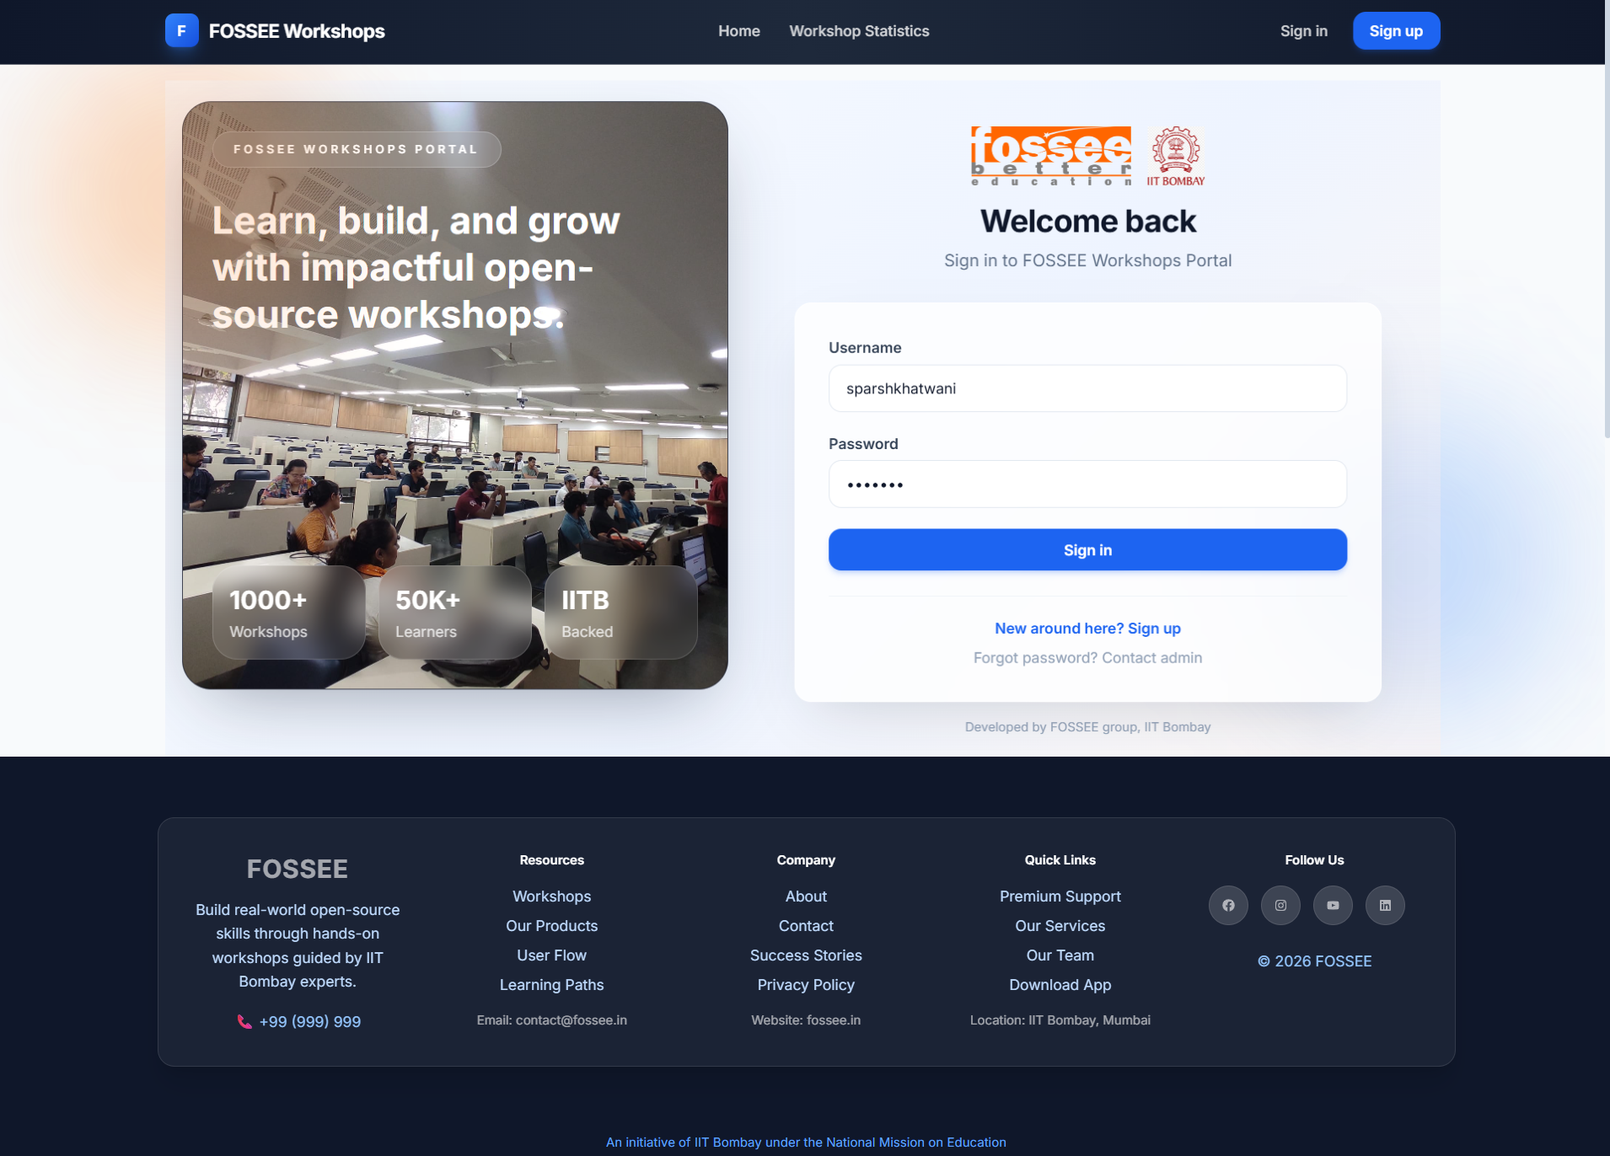
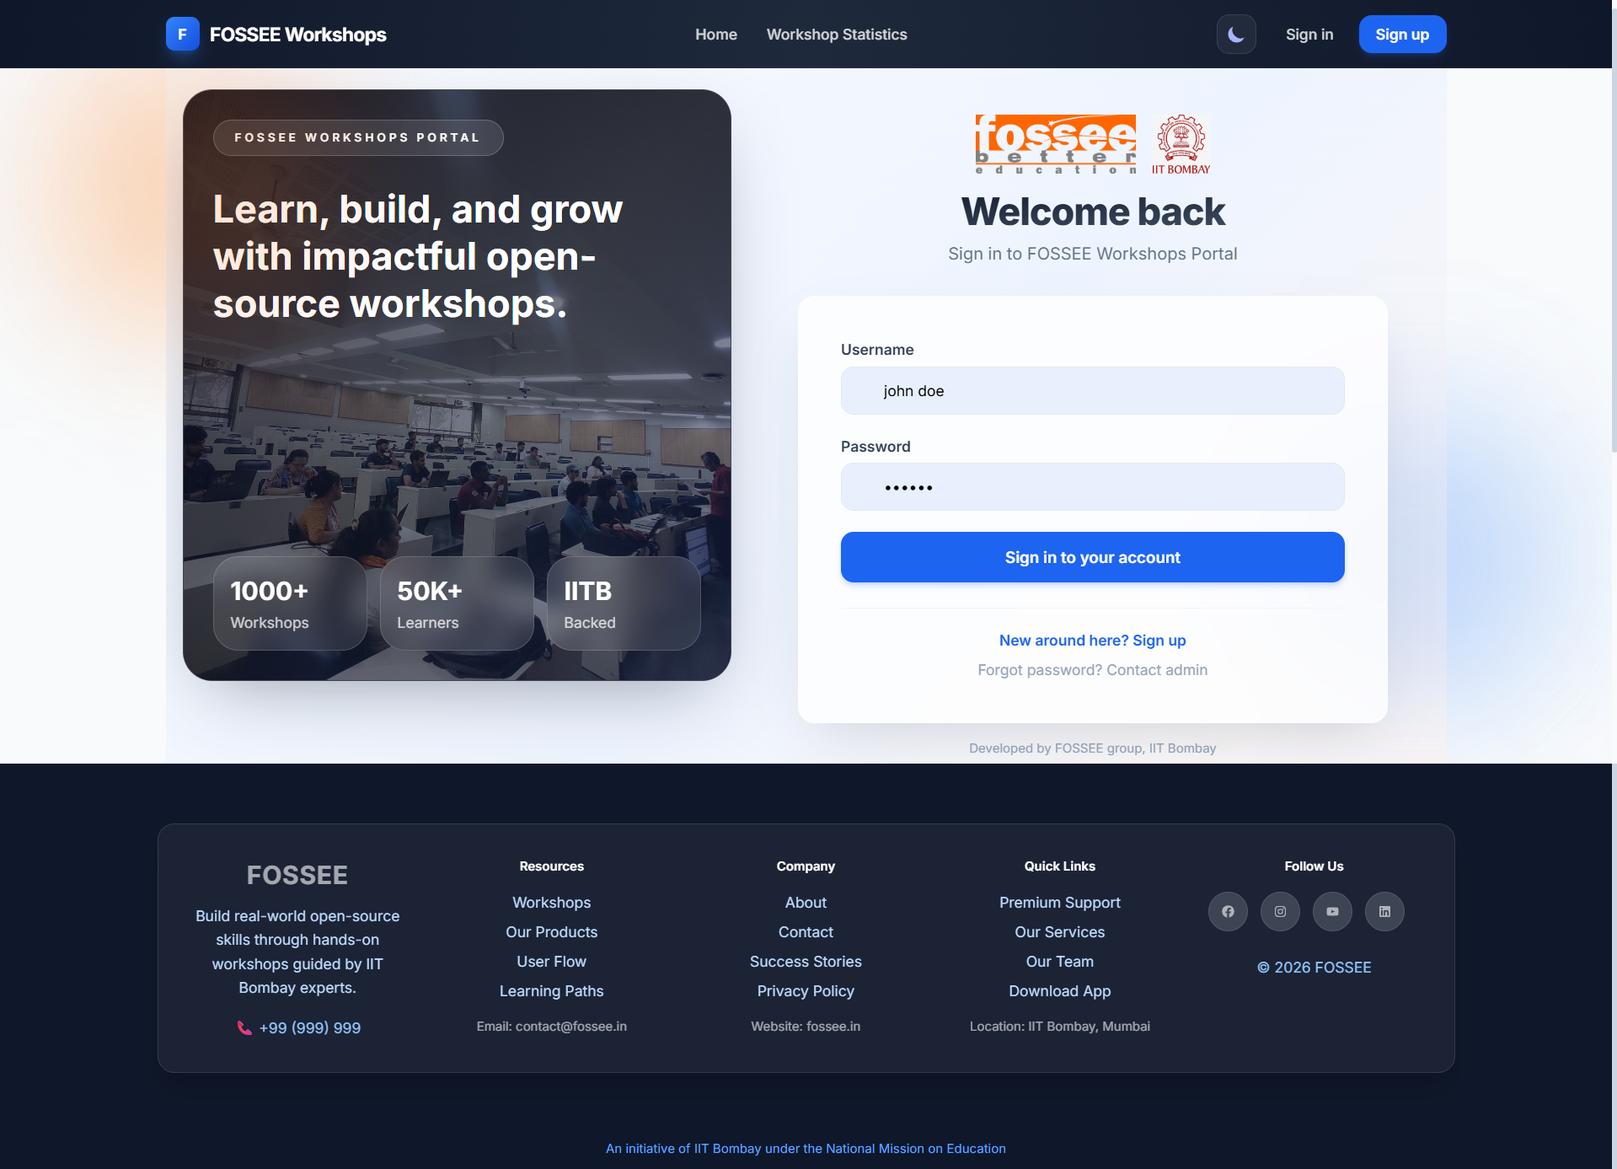
Dark Mode Feature Added

diff --git a/frontend/src/pages/LoginPage.jsx b/frontend/src/pages/LoginPage.jsx
@@ -46,20 +46,20 @@ export default function LoginPage() {
       description="Log in to book and manage FOSSEE workshops conducted by IIT Bombay."
       keywords="FOSSEE, Workshop Booking, IIT Bombay"
     />
-    <div className="relative min-h-screen overflow-x-hidden bg-[linear-gradient(135deg,#f8fbff_0%,#eef4ff_55%,#fff8f3_100%)] px-3 py-5 lg:px-4">
+    <div className="relative min-h-screen overflow-x-hidden bg-[linear-gradient(135deg,#f8fbff_0%,#eef4ff_55%,#fff8f3_100%)] dark:bg-none dark:bg-surface-950 px-3 py-5 lg:px-4">
       <div className="fixed inset-0 -z-10 overflow-hidden pointer-events-none">
         <div className="absolute left-[3%] top-[10%] h-64 w-64 rounded-full bg-orange-300/20 blur-3xl" />
         <div className="absolute bottom-[8%] right-[4%] h-72 w-72 rounded-full bg-blue-300/20 blur-3xl" />
       </div>
 
       <div className="mx-auto grid w-full max-w-[1450px] gap-6 xl:grid-cols-[minmax(320px,0.88fr)_minmax(460px,1.08fr)] xl:items-start">
-        <aside className="relative hidden min-h-[560px] overflow-hidden rounded-[28px] border border-white/25 bg-slate-950 shadow-[0_24px_70px_-24px_rgba(15,23,42,0.42)] xl:flex">
+        <aside className="relative hidden min-h-[560px] overflow-hidden rounded-[28px] border border-white/25 bg-slate-950 shadow-[0_24px_70px_-24px_rgba(15,23,42,0.42)] xl:flex group">
           <img
             src="logos/img1.jpg"
             alt="FOSSEE workshop session"
-            className="absolute inset-0 h-full w-full object-cover"
+            className="absolute inset-0 h-full w-full object-cover transition-transform duration-[15s] group-hover:scale-110 ease-out"
             />
-          <div className="absolute inset-0 bg-gradient-to-br from-slate-950/86 via-slate-900/55 to-blue-950/50" />
+          <div className="absolute inset-0 bg-gradient-to-br from-slate-950/90 via-slate-900/60 to-primary-950/50" />
 
           <div className="relative flex min-h-[560px] w-full flex-col justify-between p-7 text-white">
             <div className="max-w-[420px]">
@@ -105,15 +105,15 @@ export default function LoginPage() {
                   />
               </div>
 
-              <h1 className="text-3xl font-bold tracking-tight text-surface-900">
+              <h1 className="mt-2 text-4xl font-extrabold tracking-tight bg-gradient-to-br from-surface-900 to-surface-600 bg-clip-text text-transparent dark:from-white dark:to-surface-300">
                 Welcome back
               </h1>
-              <p className="mt-2 text-base text-surface-500">
+              <p className="mt-2 text-base text-surface-500 dark:text-surface-300">
                 Sign in to FOSSEE Workshops Portal
               </p>
             </div>
 
-            <div className="card relative z-10 border border-white/70 bg-white/80 p-8 shadow-[0_22px_55px_-20px_rgba(15,23,42,0.18)] backdrop-blur-xl">
+            <div className="card relative z-10 border border-white/70 dark:border-surface-700 bg-white/80 dark:bg-surface-900/80 p-8 sm:p-10 shadow-[0_22px_55px_-20px_rgba(15,23,42,0.18)] dark:shadow-[0_0_40px_-10px_rgba(0,0,0,0.4)] backdrop-blur-xl">
               {error && (
                 <div className="mb-5 flex items-start gap-2 rounded-xl border border-red-200 bg-red-50 p-3.5 text-sm font-medium text-red-700 animate-fade-in">
                   <svg className="mt-0.5 h-5 w-5 flex-shrink-0 text-red-500" fill="none" viewBox="0 0 24 24" stroke="currentColor">
@@ -130,50 +130,67 @@ export default function LoginPage() {
 
               <form onSubmit={handleSubmit} className="space-y-5">
                 <div>
-                  <label htmlFor="username" className="mb-1.5 block text-sm font-semibold text-surface-700">
+                  <label htmlFor="username" className="mb-1.5 block text-sm font-semibold text-surface-700 dark:text-surface-200">
                     Username
                   </label>
-                  <input
-                    id="username"
-                    type="text"
-                    value={username}
-                    onChange={(e) => setUsername(e.target.value)}
-                    className="input-field relative z-10"
-                    placeholder="Enter your username"
-                    required
-                    autoFocus
-                    />
+                  <div className="relative group">
+                    <div className="absolute inset-y-0 left-0 flex items-center pl-3.5 pointer-events-none text-surface-400 group-focus-within:text-primary-500 transition-colors">
+                      <svg className="w-5 h-5" fill="none" viewBox="0 0 24 24" stroke="currentColor">
+                        <path strokeLinecap="round" strokeLinejoin="round" strokeWidth={2} d="M16 7a4 4 0 11-8 0 4 4 0 018 0zM12 14a7 7 0 00-7 7h14a7 7 0 00-7-7z" />
+                      </svg>
+                    </div>
+                    <input
+                      id="username"
+                      type="text"
+                      value={username}
+                      onChange={(e) => setUsername(e.target.value)}
+                      className="input-field relative z-10 pl-10"
+                      placeholder="Enter your username"
+                      required
+                      autoFocus
+                      />
+                  </div>
                 </div>
 
                 <div>
-                  <label htmlFor="password" className="mb-1.5 block text-sm font-semibold text-surface-700">
+                  <label htmlFor="password" className="mb-1.5 block text-sm font-semibold text-surface-700 dark:text-surface-200">
                     Password
                   </label>
-                  <input
-                    id="password"
-                    type="password"
-                    value={password}
-                    onChange={(e) => setPassword(e.target.value)}
-                    className="input-field relative z-10"
-                    placeholder="Enter your password"
-                    required
-                    />
+                  <div className="relative group">
+                    <div className="absolute inset-y-0 left-0 flex items-center pl-3.5 pointer-events-none text-surface-400 group-focus-within:text-primary-500 transition-colors">
+                      <svg className="w-5 h-5" fill="none" viewBox="0 0 24 24" stroke="currentColor">
+                        <path strokeLinecap="round" strokeLinejoin="round" strokeWidth={2} d="M12 15v2m-6 4h12a2 2 0 002-2v-6a2 2 0 00-2-2H6a2 2 0 00-2 2v6a2 2 0 002 2zm10-10V7a4 4 0 00-8 0v4h8z" />
+                      </svg>
+                    </div>
+                    <input
+                      id="password"
+                      type="password"
+                      value={password}
+                      onChange={(e) => setPassword(e.target.value)}
+                      className="input-field relative z-10 pl-10"
+                      placeholder="Enter your password"
+                      required
+                      />
+                  </div>
                 </div>
 
                 <button
                   id="login-submit-button"
                   type="submit"
                   disabled={loading}
-                  className="btn-primary w-full disabled:cursor-not-allowed disabled:opacity-60"
+                  className="btn-primary w-full relative overflow-hidden group disabled:cursor-not-allowed disabled:opacity-60 py-3.5 text-[15px]"
                   >
-                  {loading ? (
-                    <div className="flex items-center justify-center gap-2">
-                      <div className="h-4 w-4 rounded-full border-2 border-white/30 border-t-white animate-spin" />
-                      Signing in...
-                    </div>
-                  ) : (
-                    'Sign in'
-                  )}
+                  <span className="absolute inset-0 bg-white/20 translate-y-[100%] group-hover:translate-y-[0%] transition-transform duration-300 ease-out" />
+                  <span className="relative z-10 flex items-center justify-center gap-2">
+                    {loading ? (
+                      <>
+                        <div className="h-4 w-4 rounded-full border-2 border-white/30 border-t-white animate-spin" />
+                        Signing in...
+                      </>
+                    ) : (
+                      'Sign in to your account'
+                    )}
+                  </span>
                 </button>
               </form>
 

diff --git a/frontend/src/pages/StatisticsPage.jsx b/frontend/src/pages/StatisticsPage.jsx
@@ -122,8 +122,8 @@ export default function StatisticsPage() {
     />
     <div className="relative z-10 space-y-6 animate-slide-up pointer-events-auto">
       <div>
-        <h1 className="text-2xl font-bold text-surface-900 tracking-tight">Workshop Statistics</h1>
-        <p className="mt-1 text-sm text-surface-500">Browse and analyze workshop data across India</p>
+        <h1 className="text-2xl font-bold text-surface-900 dark:text-white tracking-tight">Workshop Statistics</h1>
+        <p className="mt-1 text-sm text-surface-500 dark:text-surface-300">Browse and analyze workshop data across India</p>
       </div>
 
       <div className="relative z-10 grid grid-cols-1 gap-6 lg:grid-cols-4 pointer-events-auto">
@@ -355,27 +355,27 @@ export default function StatisticsPage() {
               <div className="overflow-x-auto">
                 <table className="w-full">
                   <thead>
-                    <tr className="border-b border-surface-100 bg-surface-50/50">
-                      <th className="px-6 py-3 text-left text-xs font-semibold uppercase tracking-wider text-surface-500">Sr No.</th>
-                      <th className="px-6 py-3 text-left text-xs font-semibold uppercase tracking-wider text-surface-500">Coordinator</th>
-                      <th className="px-6 py-3 text-left text-xs font-semibold uppercase tracking-wider text-surface-500">Institute</th>
-                      <th className="px-6 py-3 text-left text-xs font-semibold uppercase tracking-wider text-surface-500">Instructor</th>
-                      <th className="px-6 py-3 text-left text-xs font-semibold uppercase tracking-wider text-surface-500">Workshop</th>
-                      <th className="px-6 py-3 text-left text-xs font-semibold uppercase tracking-wider text-surface-500">Date</th>
+                    <tr className="border-b border-surface-100 dark:border-surface-700 bg-surface-50/50 dark:bg-surface-800/50">
+                      <th className="px-6 py-3 text-left text-xs font-semibold uppercase tracking-wider text-surface-500 dark:text-surface-200">Sr No.</th>
+                      <th className="px-6 py-3 text-left text-xs font-semibold uppercase tracking-wider text-surface-500 dark:text-surface-200">Coordinator</th>
+                      <th className="px-6 py-3 text-left text-xs font-semibold uppercase tracking-wider text-surface-500 dark:text-surface-200">Institute</th>
+                      <th className="px-6 py-3 text-left text-xs font-semibold uppercase tracking-wider text-surface-500 dark:text-surface-200">Instructor</th>
+                      <th className="px-6 py-3 text-left text-xs font-semibold uppercase tracking-wider text-surface-500 dark:text-surface-200">Workshop</th>
+                      <th className="px-6 py-3 text-left text-xs font-semibold uppercase tracking-wider text-surface-500 dark:text-surface-200">Date</th>
                     </tr>
                   </thead>
                   <tbody className="divide-y divide-surface-100">
                     {data?.workshops?.length > 0 ? (
                       data.workshops.map((w, i) => (
-                        <tr key={w.id} className="transition-colors hover:bg-surface-50/50">
-                          <td className="px-6 py-4 text-sm text-surface-500">
+                        <tr key={w.id} className="transition-colors hover:bg-surface-50/50 dark:hover:bg-surface-800/50 border-b border-surface-100 dark:border-surface-800/50">
+                          <td className="px-6 py-4 text-sm text-surface-500 dark:text-surface-300">
                             {(data.page - 1) * data.per_page + i + 1}
                           </td>
-                          <td className="px-6 py-4 text-sm font-medium text-surface-900">{w.coordinator_name}</td>
-                          <td className="px-6 py-4 text-sm text-surface-600">{w.coordinator_institute}</td>
-                          <td className="px-6 py-4 text-sm text-surface-600">{w.instructor_name || '—'}</td>
-                          <td className="px-6 py-4 text-sm text-surface-600">{w.workshop_type_name}</td>
-                          <td className="px-6 py-4 text-sm text-surface-600">
+                          <td className="px-6 py-4 text-sm font-medium text-surface-900 dark:text-white">{w.coordinator_name}</td>
+                          <td className="px-6 py-4 text-sm text-surface-600 dark:text-surface-300">{w.coordinator_institute}</td>
+                          <td className="px-6 py-4 text-sm text-surface-600 dark:text-surface-300">{w.instructor_name || '—'}</td>
+                          <td className="px-6 py-4 text-sm text-surface-600 dark:text-surface-300">{w.workshop_type_name}</td>
+                          <td className="px-6 py-4 text-sm text-surface-600 dark:text-surface-300">
                             {new Date(w.date).toLocaleDateString('en-IN', {
                               day: 'numeric',
                               month: 'short',
@@ -386,7 +386,7 @@ export default function StatisticsPage() {
                       ))
                     ) : (
                       <tr>
-                        <td colSpan={6} className="px-6 py-12 text-center text-sm text-surface-400">
+                        <td colSpan={6} className="px-6 py-12 text-center text-sm text-surface-400 dark:text-surface-300">
                           No workshops found for the selected criteria
                         </td>
                       </tr>

diff --git a/frontend/src/components/Navbar.jsx b/frontend/src/components/Navbar.jsx
@@ -1,9 +1,11 @@
 import { useState } from 'react';
 import { Link, useLocation } from 'react-router-dom';
 import { useAuth } from '../context/AuthContext';
+import { useTheme } from '../context/ThemeContext';
 
 export default function Navbar() {
   const { user, isAuthenticated, isInstructor, logout } = useAuth();
+  const { theme, toggleTheme } = useTheme();
   const location = useLocation();
   const [mobileOpen, setMobileOpen] = useState(false);
   const [profileOpen, setProfileOpen] = useState(false);
@@ -62,6 +64,21 @@ export default function Navbar() {
 
           {/* Right side */}
           <div className="hidden md:flex items-center gap-3">
+            <button
+              onClick={toggleTheme}
+              className="p-2 rounded-xl bg-white/5 border border-white/10 text-white hover:bg-white/10 transition-colors"
+              aria-label="Toggle Dark Mode"
+            >
+              {theme === 'dark' ? (
+                <svg className="w-5 h-5 text-yellow-300" fill="currentColor" viewBox="0 0 20 20">
+                  <path d="M10 2a1 1 0 011 1v1a1 1 0 11-2 0V3a1 1 0 011-1zm4 8a4 4 0 11-8 0 4 4 0 018 0zm-.464 4.95l.707.707a1 1 0 001.414-1.414l-.707-.707a1 1 0 00-1.414 1.414zm2.12-10.607a1 1 0 010 1.414l-.706.707a1 1 0 11-1.414-1.414l.707-.707a1 1 0 011.414 0zM17 11a1 1 0 100-2h-1a1 1 0 100 2h1zm-7 4a1 1 0 011 1v1a1 1 0 11-2 0v-1a1 1 0 011-1zM5.05 6.464A1 1 0 106.465 5.05l-.708-.707a1 1 0 00-1.414 1.414l.707.707zm1.414 8.486l-.707.707a1 1 0 01-1.414-1.414l.707-.707a1 1 0 011.414 1.414zM4 11a1 1 0 100-2H3a1 1 0 000 2h1z" />
+                </svg>
+              ) : (
+                <svg className="w-5 h-5 text-indigo-300" fill="currentColor" viewBox="0 0 20 20">
+                  <path d="M17.293 13.293A8 8 0 016.707 2.707a8.001 8.001 0 1010.586 10.586z" />
+                </svg>
+              )}
+            </button>
             {isAuthenticated ? (
               <div className="relative">
                 <button
@@ -185,6 +202,17 @@ export default function Navbar() {
                   <Link to="/register" onClick={() => setMobileOpen(false)} className={navLinkClass('/register')}>Sign up</Link>
                 </>
               )}
+              <button
+                onClick={toggleTheme}
+                className="text-left px-3 py-2 rounded-lg text-sm font-medium text-white/80 hover:bg-white/10 hover:text-white transition-all w-full flex justify-between items-center"
+              >
+                <span>{theme === 'dark' ? 'Light Mode' : 'Dark Mode'}</span>
+                {theme === 'dark' ? (
+                   <svg className="w-5 h-5 text-yellow-300" fill="currentColor" viewBox="0 0 20 20"><path d="M10 2a1 1 0 011 1v1a1 1 0 11-2 0V3a1 1 0 011-1zm4 8a4 4 0 11-8 0 4 4 0 018 0zm-.464 4.95l.707.707a1 1 0 001.414-1.414l-.707-.707a1 1 0 00-1.414 1.414zm2.12-10.607a1 1 0 010 1.414l-.706.707a1 1 0 11-1.414-1.414l.707-.707a1 1 0 011.414 0zM17 11a1 1 0 100-2h-1a1 1 0 100 2h1zm-7 4a1 1 0 011 1v1a1 1 0 11-2 0v-1a1 1 0 011-1zM5.05 6.464A1 1 0 106.465 5.05l-.708-.707a1 1 0 00-1.414 1.414l.707.707zm1.414 8.486l-.707.707a1 1 0 01-1.414-1.414l.707-.707a1 1 0 011.414 1.414zM4 11a1 1 0 100-2H3a1 1 0 000 2h1z" /></svg>
+                ) : (
+                   <svg className="w-5 h-5 text-indigo-300" fill="currentColor" viewBox="0 0 20 20"><path d="M17.293 13.293A8 8 0 016.707 2.707a8.001 8.001 0 1010.586 10.586z" /></svg>
+                )}
+              </button>
             </div>
           </div>
         )}

diff --git a/frontend/src/index.css b/frontend/src/index.css
@@ -6,7 +6,7 @@
 
 @layer base {
   body {
-    @apply bg-surface-50 text-surface-900 font-sans antialiased;
+    @apply bg-surface-50 text-surface-900 font-sans antialiased transition-colors duration-300 dark:bg-surface-950 dark:text-surface-100;
   }
 }
 
@@ -20,7 +20,8 @@
   .btn-secondary {
     @apply inline-flex items-center justify-center px-5 py-2.5 rounded-xl bg-surface-100 text-surface-700 font-semibold text-sm
            border border-surface-200 hover:bg-surface-200 active:bg-surface-300 transition-all duration-200
-           hover:-translate-y-0.5 focus:outline-none focus:ring-2 focus:ring-surface-400 focus:ring-offset-2;
+           hover:-translate-y-0.5 focus:outline-none focus:ring-2 focus:ring-surface-400 focus:ring-offset-2
+           dark:bg-surface-800 dark:text-surface-200 dark:border-surface-700 dark:hover:bg-surface-700;
   }
 
   .btn-danger {
@@ -36,13 +37,14 @@
   }
 
   .card {
-    @apply bg-white rounded-2xl border border-surface-200/60 shadow-sm hover:shadow-md transition-shadow duration-300;
+    @apply bg-white rounded-2xl border border-surface-200/60 shadow-sm hover:shadow-md transition-shadow duration-300
+           dark:bg-surface-900 dark:border-surface-800 dark:shadow-none;
   }
 
   .input-field {
     @apply w-full px-4 py-3 rounded-xl border border-surface-200 bg-white text-surface-900 text-sm
            placeholder:text-surface-400 focus:outline-none focus:ring-2 focus:ring-primary-500/40 focus:border-primary-500
-           transition-all duration-200;
+           transition-all duration-200 dark:bg-surface-800 dark:border-surface-700 dark:text-white dark:placeholder-surface-500;
   }
 
   .badge-success {

diff --git a/frontend/src/context/ThemeContext.jsx b/frontend/src/context/ThemeContext.jsx
@@ -1,0 +1,29 @@
+// src/context/ThemeContext.jsx
+import { createContext, useContext, useEffect, useState } from 'react';
+
+const ThemeContext = createContext();
+
+export function ThemeProvider({ children }) {
+  const [theme, setTheme] = useState(
+    localStorage.getItem('theme') || 'light'
+  );
+
+  useEffect(() => {
+    const root = window.document.documentElement;
+    root.classList.remove('light', 'dark');
+    root.classList.add(theme);
+    localStorage.setItem('theme', theme);
+  }, [theme]);
+
+  const toggleTheme = () => {
+    setTheme(theme === 'dark' ? 'light' : 'dark');
+  };
+
+  return (
+    <ThemeContext.Provider value={{ theme, toggleTheme }}>
+      {children}
+    </ThemeContext.Provider>
+  );
+}
+
+export const useTheme = () => useContext(ThemeContext);

diff --git a/frontend/src/main.jsx b/frontend/src/main.jsx
@@ -3,10 +3,14 @@ import { createRoot } from 'react-dom/client'
 import './index.css'
 import App from './App.jsx'
 import {HelmetProvider} from 'react-helmet-async'
+import { ThemeProvider } from './context/ThemeContext'
+
 createRoot(document.getElementById('root')).render(
   <StrictMode>
     <HelmetProvider>
-    <App />
+      <ThemeProvider>
+        <App />
+      </ThemeProvider>
     </HelmetProvider>
   </StrictMode>,
 )

diff --git a/frontend/tailwind.config.js b/frontend/tailwind.config.js
@@ -1,5 +1,6 @@
 /** @type {import('tailwindcss').Config} */
 export default {
+  darkMode: 'class',
   content: [
     "./index.html",
     "./src/**/*.{js,ts,jsx,tsx}",

diff --git a/README.md b/README.md
@@ -9,6 +9,7 @@ The redesign prioritizes clarity, accessibility, and a modern user experience, e
 ---
 ## 🎨 Visual User Interface(UI) Upgrades
 * **Modern Interface:** Transitioned the application to a modern frontend using React and Tailwind CSS.
+* **Global Dark Mode Toggle**: Integrated a custom React Theme Context with a sleek Navbar toggle that fully transitions the application's UI, including glassmorphic cards, typography, and inputs, into a finely-tuned dark aesthetic, while persisting the user's preference in `localStorage`.
 * **Glassmorphic Footer:** Implemented a premium, glassmorphic footer with glowing gradient backgrounds (`backdrop-blur-xl`, `bg-white/5`), dramatically improving the lower page aesthetics.
 * **Refined Typography & Spacing:** Upgraded global padding, margin, and max-widths (`max-w-7xl`, `mx-auto`) to ensure clear and responsive alignment across all device sizes.
 * **Interactive Hover States:** Added smooth `scale` and color shift transitions on buttons, links, and social icons (e.g., `hover:scale-110`, `transition duration-300`).
@@ -52,11 +53,17 @@ We approached this by systematically stepping through the backend first: establi
 **Home After:**  
 ![Login After](./screenshots/after1.png)
 
+**Home After Dark Mode:**  
+![Login After](./screenshots/darkafter.png)
+
 **Workshop Statistics Before:**  
 ![Table Before](./screenshots/before2.png)
 
 **Workshop Statistics After:**  
 ![Table After](./screenshots/after2.png)
+
+**Workshop Statistics After Dark Mode:**  
+![Table After](./screenshots/darkafter2.png)
 
 **Responsiveness Demo:**  
 ![Responsive 1](./screenshots/res1.png)
